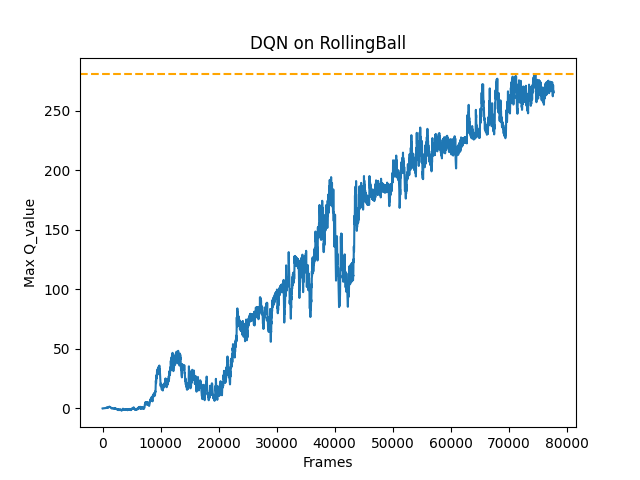
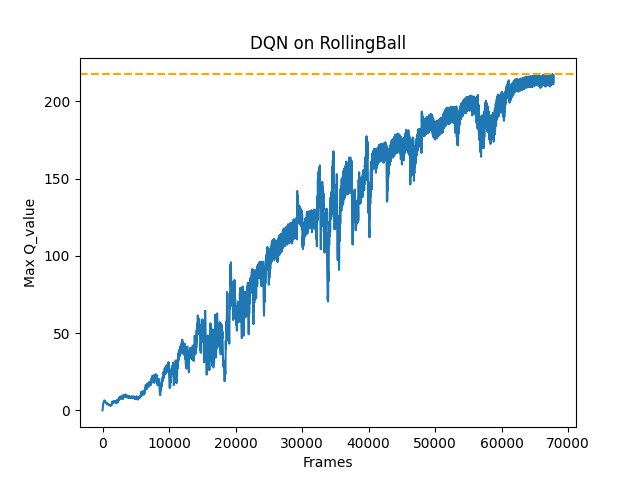
Refactor DQN class to include soft update parameter; enhance reward structure in RollingBall environment with distance-based penalties and stage rewards.

diff --git a/two_dimensional_rolling_motion_Problem/RL_DQN_Class.py b/two_dimensional_rolling_motion_Problem/RL_DQN_Class.py
@@ -52,7 +52,7 @@ class Q_Net(torch.nn.Module):
 
 class DQN(torch.nn.Module):
     ''' DQN算法 '''
-    def __init__(self, state_dim, hidden_dim, action_dim, action_range, lr, gamma, epsilon, target_update, device, seed=None):
+    def __init__(self, state_dim, hidden_dim, action_dim, action_range, lr, gamma, epsilon, tau, device, seed=None):
         super().__init__()
         self.action_dim = action_dim
         self.state_dim = state_dim
@@ -60,7 +60,7 @@ class DQN(torch.nn.Module):
         self.action_range = action_range        # action 取值范围
         self.gamma = gamma                      # 折扣因子
         self.epsilon = epsilon                  # epsilon-greedy
-        self.target_update = target_update      # 目标网络更新频率
+        self.tau = tau
         self.count = 0                          # Q_Net 更新计数
         self.rng = np.random.RandomState(seed)  # agent 使用的随机数生成器
         self.device = device                
@@ -104,3 +104,4 @@ class DQN(torch.nn.Module):
         # 软更新目标网络参数
         for target_param, q_param in zip(self.target_q_net.parameters(), self.q_net.parameters()):
             target_param.data.copy_(self.tau * q_param.data + (1.0 - self.tau) * target_param.data)
+

diff --git a/two_dimensional_rolling_motion_Problem/two_dimensional_rolling_motion/envs/GridWorld.py b/two_dimensional_rolling_motion_Problem/two_dimensional_rolling_motion/envs/GridWorld.py
@@ -63,10 +63,14 @@ class RollingBall(gym.Env):
         self.position += self.velocity * self.time_step
 
         # 计算奖励
-        reward = self.rewards['step']
-
-        # 处理边界碰撞
-        reward = self._handle_boundary_collision(reward)
+        distance = np.linalg.norm(self.position - self.target_position)
+        reward = self.rewards['step'] - 1.0 * distance  # 增强距离惩罚
+        # 阶段性奖励
+        if 2.0 <= distance < 3.0:
+            reward += 20.0
+        elif 1.0 <= distance < 2.0:
+            reward += 50.0
+   
 
         # 检查是否到达目标状态
         terminated, truncated = False, False
